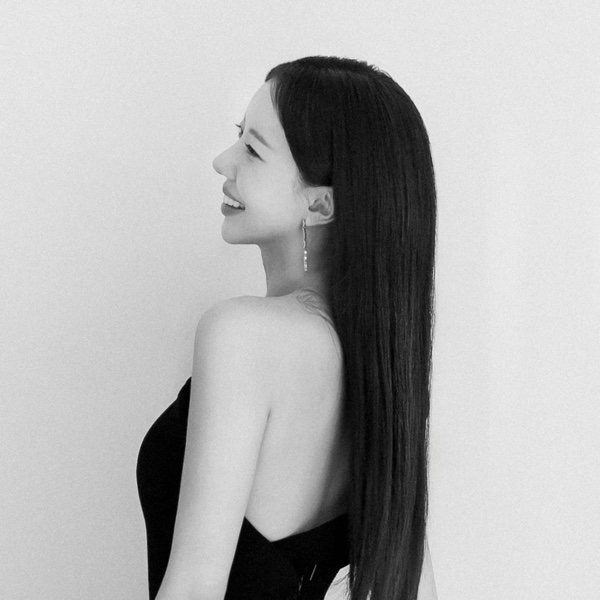
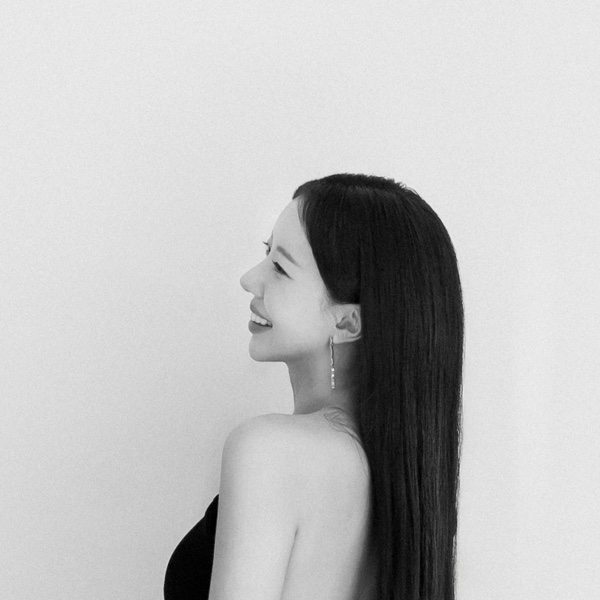
프로필 사진 얼굴 중앙 재크롭, 원형 프레임에 은은한 그림자 추가

Changed region(s): [[0.21, 0.09, 0.78, 1.0], [0.66, 0.36, 0.69, 0.39]]

diff --git a/index.html b/index.html
@@ -180,6 +180,8 @@ section { padding: 66px 30px; }
 .profile-photo {
   display: block; width: 82%; aspect-ratio: 1; margin: 0 auto;
   border-radius: 50%; background: #E6DCC8; object-fit: cover;
+  /* 배경과 동떨어져 보이지 않게 살짝 띄우는 그림자 */
+  box-shadow: 0 8px 20px rgba(90, 74, 54, .16), 0 2px 5px rgba(90, 74, 54, .10);
 }
 .profile-role { margin-top: 22px; font-size: 14px; letter-spacing: .3em; text-indent: .3em; color: var(--muted-2); }
 .profile-name { margin-top: 8px; font-size: 16.5px; letter-spacing: .28em; text-indent: .28em; color: var(--heading); }
